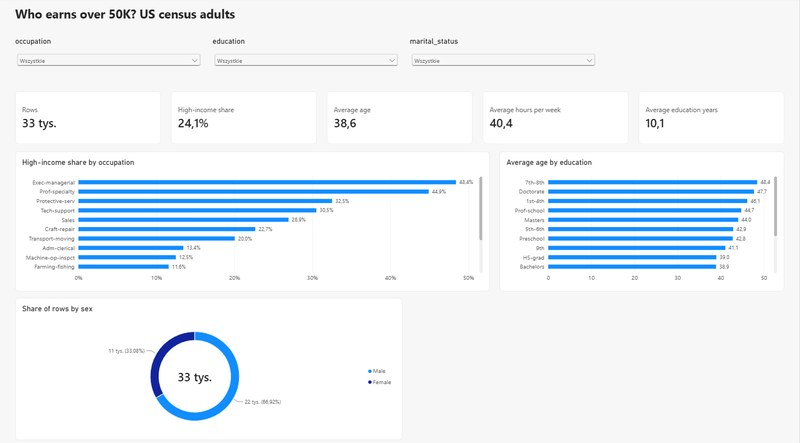
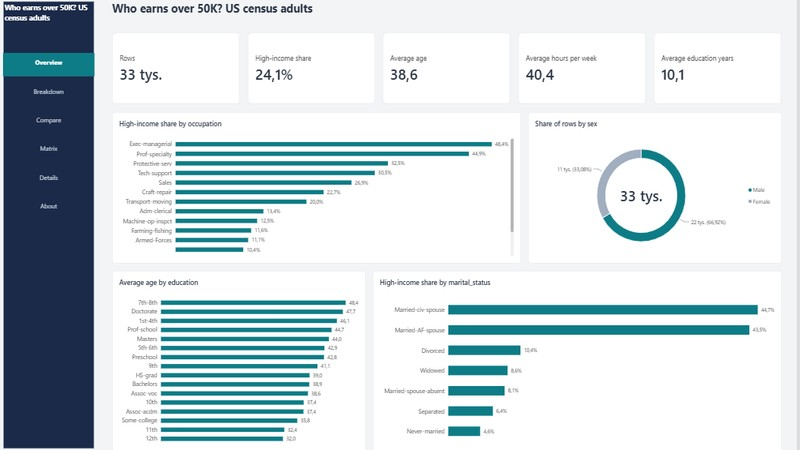
Refresh the three Power BI cards with the redesigned reports (new previews and descriptions)

diff --git a/index.html b/index.html
@@ -96,7 +96,7 @@
 										<h2>Online Shoppers: Who Buys?</h2>
 									</header>
 									<a class="image fit"><img src="images/powerbi_online_shoppers.jpg" alt="Online Shoppers Power BI dashboard preview" /></a>
-									<p>12,330 browsing sessions of an online shop: 15.5% end with a purchase, and the report shows how that conversion rate changes by month, type of visitor and traffic source. Built on a public UCI dataset.</p>
+									<p>12,330 browsing sessions of an online shop: 15.5% end with a purchase, and the report shows how that conversion rate changes by month, type of visitor and traffic source. Six pages with a side menu, a Filters pane and hover tooltips, built on a public UCI dataset.</p>
 									<ul class="actions special">
 										<li><a href="https://app.powerbi.com/view?r=eyJrIjoiMDI1ODM2N2QtNmNmOS00ODE0LWFmMzQtMTIwYzYzZTM4NTg0IiwidCI6Ijc1ZjM5YjcwLTgxMTAtNDM0Yi1iYTU3LWFlOGY1Mzc5MjE1MCJ9" class="button" target="_blank" rel="noopener noreferrer">View Project</a></li>
 										<li><a href="https://github.com/kagap/powerbi/tree/main/OnlineShoppers_PurchasingIntention" class="button" target="_blank" rel="noopener noreferrer">View on GitHub</a></li>
@@ -108,7 +108,7 @@
 										<h2>Who Earns Over 50K? US Census Adults</h2>
 									</header>
 									<a class="image fit"><img src="images/powerbi_adult_income.jpg" alt="Adult Census Income Power BI dashboard preview" /></a>
-									<p>32,561 adults from a 1994 US census extract: 24.1% earn more than 50,000 dollars a year, and the share runs from 4.6% to 44.7% by marital status and from 4.2% to 48.4% by occupation.</p>
+									<p>32,561 adults from a 1994 US census extract: 24.1% earn more than 50,000 dollars a year, and the share runs from 4.6% to 44.7% by marital status and from 4.2% to 48.4% by occupation. Six pages with a side menu, a Filters pane and hover tooltips.</p>
 									<ul class="actions special">
 										<li><a href="https://app.powerbi.com/view?r=eyJrIjoiNzkxZjJiODAtMDE1Yi00YzAxLTliMWYtOTE5ZWViMDc2NjQzIiwidCI6Ijc1ZjM5YjcwLTgxMTAtNDM0Yi1iYTU3LWFlOGY1Mzc5MjE1MCJ9" class="button" target="_blank" rel="noopener noreferrer">View Project</a></li>
 										<li><a href="https://github.com/kagap/powerbi/tree/main/AdultCensus_IncomeOver50K" class="button" target="_blank" rel="noopener noreferrer">View on GitHub</a></li>
@@ -120,7 +120,7 @@
 										<h2>Seoul Bike Sharing: When Do People Ride?</h2>
 									</header>
 									<a class="image fit"><img src="images/powerbi_seoul_bikes.jpg" alt="Seoul bike sharing Power BI dashboard preview" /></a>
-									<p>A year of hourly bike rentals in Seoul (about 6.2 million) with the weather at each hour: rentals by month, hour of the day and season, with commuting peaks in the morning and evening.</p>
+									<p>A year of hourly bike rentals in Seoul (about 6.2 million) with the weather at each hour: rentals by month, hour of the day and season, with commuting peaks in the morning and evening. Seven pages, KPI tiles with trend lines, a Filters pane and hover tooltips.</p>
 									<ul class="actions special">
 										<li><a href="https://app.powerbi.com/view?r=eyJrIjoiNGYyMDYxZWItNzMzOC00MzNkLTllYmItYjg2MDliZWJhMWZiIiwidCI6Ijc1ZjM5YjcwLTgxMTAtNDM0Yi1iYTU3LWFlOGY1Mzc5MjE1MCJ9" class="button" target="_blank" rel="noopener noreferrer">View Project</a></li>
 										<li><a href="https://github.com/kagap/powerbi/tree/main/SeoulBikeSharing_Demand" class="button" target="_blank" rel="noopener noreferrer">View on GitHub</a></li>
